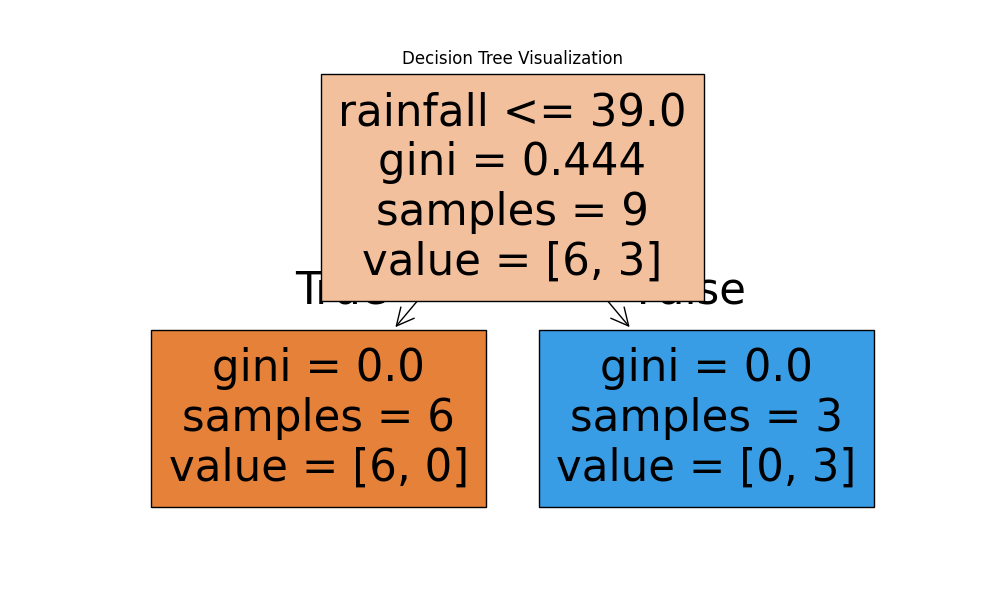
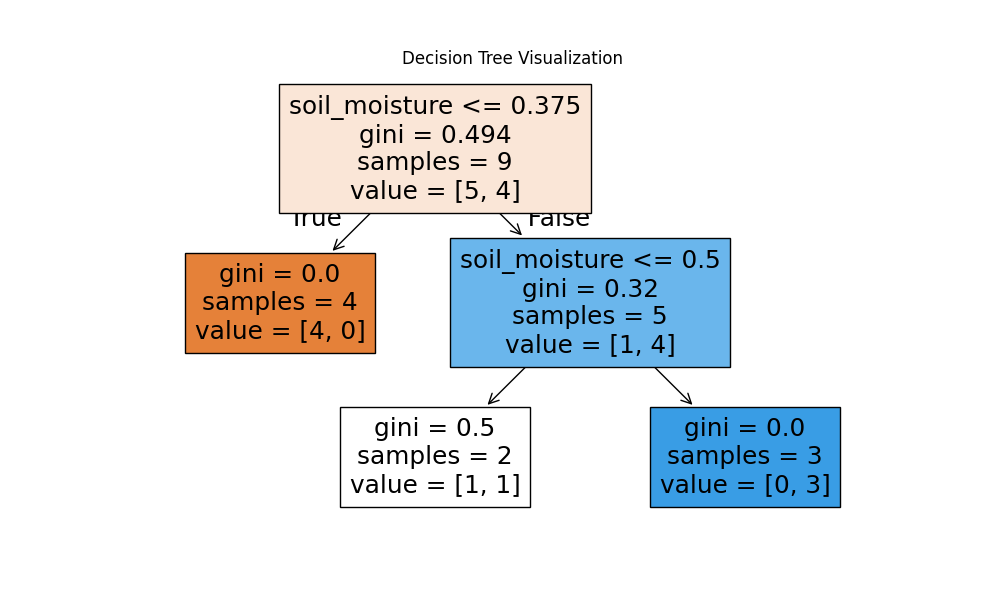
day 13: model tuning

diff --git a/src/day12_model_tuning/model_tuning.py b/src/day12_model_tuning/model_tuning.py
@@ -1,0 +1,83 @@
+import pandas as pd
+from sklearn.model_selection import train_test_split
+from sklearn.preprocessing import StandardScaler
+from sklearn.linear_model import LogisticRegression
+from sklearn.tree import DecisionTreeClassifier, plot_tree
+from sklearn.metrics import accuracy_score 
+import matplotlib.pyplot as plt
+import numpy as np
+
+df = pd.read_csv("data/flood_data_harder.csv")
+
+x = df[["rainfall", "temperature", "soil_moisture"]]
+y = df["flood"]
+
+logistic_scores = []
+decision_tree_scores = [] 
+
+#Looping over for multiple splits
+for i in range(20) :
+    x_train, x_test, y_train, y_test = train_test_split(x, y, test_size = 0.4)
+
+    #logistic Regression
+    scaler = StandardScaler()
+
+    x_train_scaled = scaler.fit_transform(x_train)
+    x_test_scaled = scaler.transform(x_test)
+
+    log_model = LogisticRegression()
+    log_model.fit(x_train_scaled, y_train)
+
+    y_pred_log = log_model.predict(x_test_scaled)
+    log_acc = accuracy_score(y_test, y_pred_log)
+
+    logistic_scores.append(log_acc)
+
+    #Decision Tree
+    tree_model = DecisionTreeClassifier(max_depth = 2)
+    tree_model.fit(x_train, y_train)
+
+    y_pred_tree = tree_model.predict(x_test)
+    tree_acc = accuracy_score(y_test, y_pred_tree)
+
+    decision_tree_scores.append(tree_acc)
+
+#Results
+print("\nAverage Logistic Regression Accuracy:", np.mean(logistic_scores))
+print("\nAverage Decision Tree Accuracy:", np.mean(decision_tree_scores))
+
+#changing depths 
+depths = [1, 2, 3, 5, 10]
+
+for depth in depths:
+    scores = []
+    train_scores = []
+    test_scores = []
+
+    for i in range(20):
+        x_train, x_test, y_train, y_test = train_test_split(x, y, test_size = 0.4)
+
+        model = DecisionTreeClassifier(max_depth = depth)
+        model.fit(x_train, y_train)
+
+        y_pred = model.predict(x_test)
+        accuarcy = accuracy_score(y_test, y_pred)
+
+        train_acc = accuracy_score(y_train, model.predict(x_train))
+        test_acc = accuracy_score(y_test, model.predict(x_test))
+
+        scores.append(accuarcy)
+        train_scores.append(train_acc)
+        test_scores.append(test_acc)
+
+    avg_score = np.mean(scores)
+    avg_train = np.mean(train_scores)
+    avg_test = np.mean(test_scores)
+    print(f"Depth: {depth}, {avg_score}")
+    print(f"Depth: {depth}, Train: {avg_train}, Test: {avg_test}")
+
+plt.figure(figsize = (10, 6))
+plot_tree(tree_model, feature_names = x.columns, filled = True)
+plt.title("Decision Tree Visualization")
+plt.savefig("outputs/decision_tree.png")
+plt.show() 
